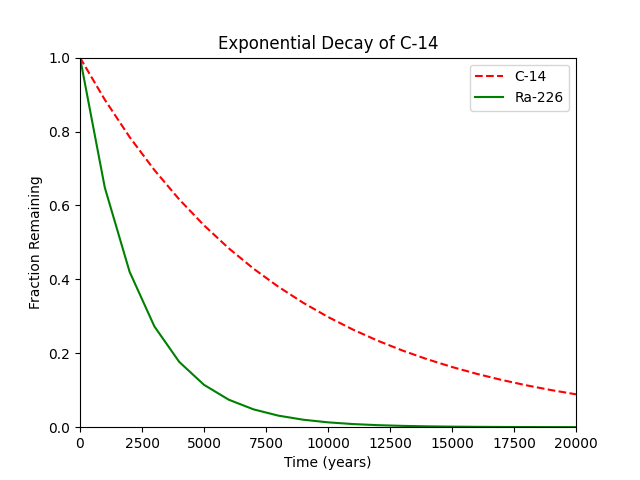
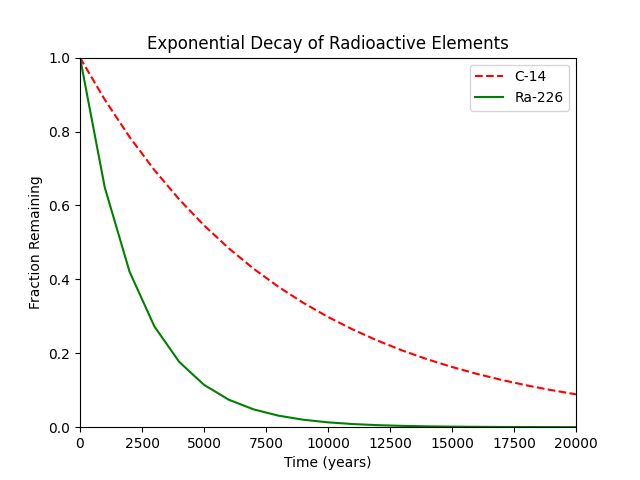
push task3

Changed region(s): [[0.2188, 0.0625, 0.7812, 0.125]]

diff --git a/math/plotting/3-two.py b/math/plotting/3-two.py
@@ -21,7 +21,7 @@ def two():
     # Spécification du graphique (couleur, titre, échelle, limite)
     plt.plot(x, y1, 'r--', label='C-14')
     plt.plot(x, y2, 'g-', label='Ra-226')
-    plt.title("Exponential Decay of C-14")
+    plt.title("Exponential Decay of Radioactive Elements")
     plt.xlabel("Time (years)")
     plt.ylabel("Fraction Remaining")
     plt.xlim(0, 20000)
